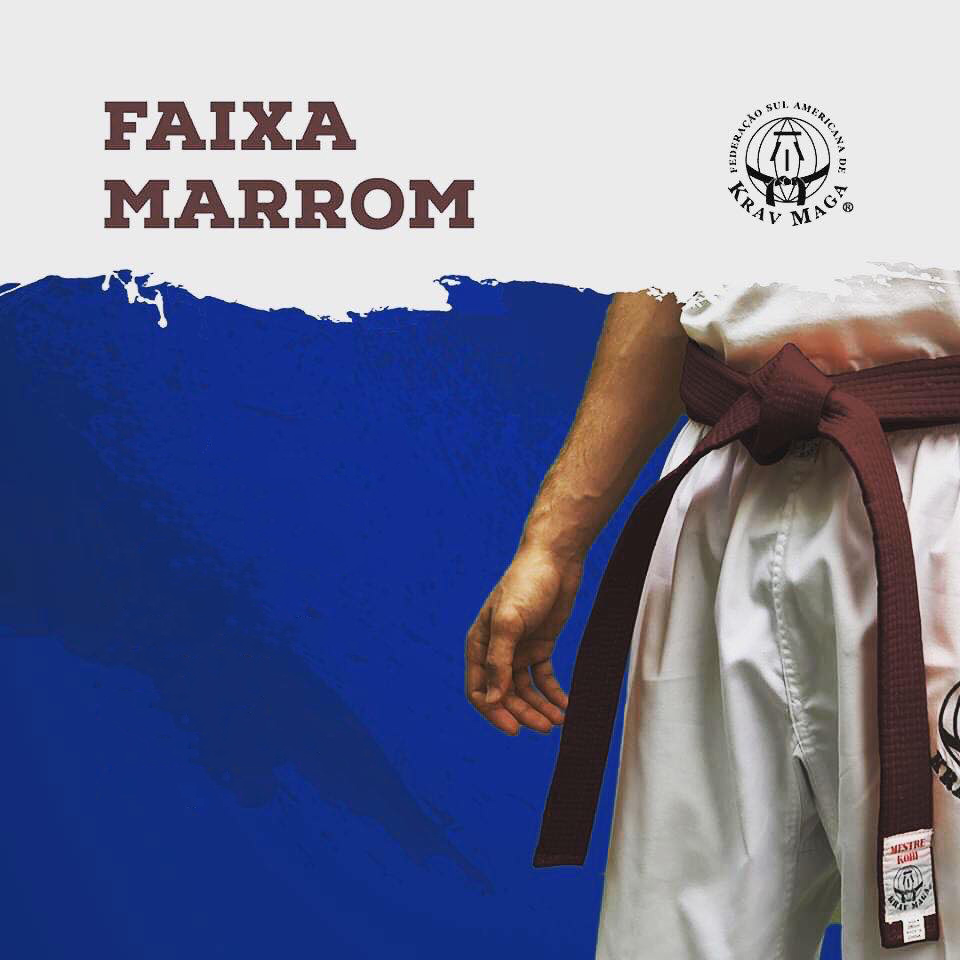
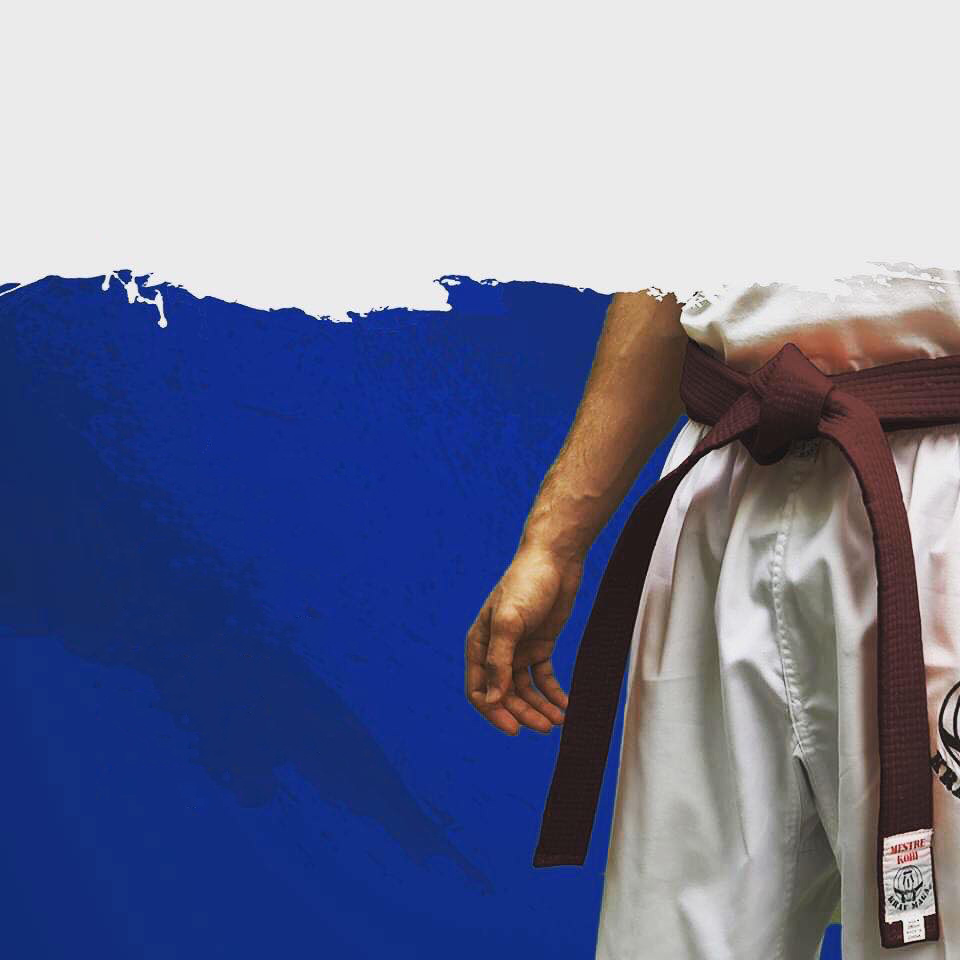
Continuação Desafio026 (d026)

Changed region(s): [[0.0938, 0.1875, 0.5, 0.25], [0.0938, 0.0938, 0.375, 0.1562], [0.75, 0.0938, 0.9062, 0.25]]

diff --git a/d026/index.html b/d026/index.html
@@ -22,7 +22,7 @@
         <h2>FAIXA BRANCA (FASE INICIAL)</h2>
     </section>
 
-    <section class="imagem">
+    <section class="imagem" id="img01">
         <p>Nessa fase inicial o aluno <br>
              encontra os primeiros <br>
              movimentos de soltura e <br>
@@ -42,7 +42,7 @@
         <h2 id="amarela">FAIXA AMARELA</h2>
     </section>
 
-    <section class="imagem">
+    <section class="imagem" id="img02">
         <p>Nessa etapa <br>
             são ensinados <br>
             os primeiros <br>
@@ -61,7 +61,7 @@
         <h2 id="laranja">FAIXA LARANJA</h2>
     </section>
 
-    <section class="imagem">
+    <section class="imagem" id="img03">
         <p>Nessa fase o aluno <br>
             tem total domínio das <br>
             técnicas já ensinadas, <br>
@@ -81,7 +81,7 @@
         <h2 id="verde">FAIXA VERDE</h2>
     </section>
 
-    <section class="imagem">
+    <section class="imagem" id="img04">
         <p>Nessa etapa ele <br>
             encontra defesas <br>
             ainda mais rápidas e <br>
@@ -101,7 +101,7 @@
         <h2 id="azul">FAIXA AZUL</h2>
     </section>
 
-    <section class="imagem">
+    <section class="imagem" id="img05">
         <p>Nesta fase, o aluno <br>
             precisa apresentar <br>
             velocidade, <br>
@@ -121,7 +121,7 @@
         <h2 id="marrom">FAIXA MARROM</h2>
     </section>
 
-    <section class="imagem">
+    <section class="imagem" id="img06">
         <p>Além dos exerícios <br>
             contra dois, três ou <br>
             mais atacantes, <br>
@@ -138,7 +138,7 @@
         <h2>FAIXA PRETA</h2>
     </section>
 
-    <section class="imagem">
+    <section class="imagem" id="img07">
         <p>É aqui que se aprende <br>
             defesas de ameaças <br>
             com fuzil e granada, <br>
@@ -158,7 +158,7 @@
         <h2 id="vermelhabranca">FAIXA VERMELHA E BRANCA</h2>
     </section>
 
-    <section class="imagem">
+    <section class="imagem" id="img08">
         <p>Esta é uma <br>
             graduação de <br>
             honra. O praticante <br>
@@ -176,7 +176,7 @@
         <h2 id="vermelha">FAIXA VERMELHA</h2>
     </section>
 
-    <section class="imagem">
+    <section class="imagem" id="img09">
         <p>A partir do 8º dan, a <br>
             faixa vira vermelha. A <br>
             última graduação do <br>

diff --git a/d026/estilo.css b/d026/estilo.css
@@ -50,6 +50,7 @@ section {
 
 .imagem {
     background-color: #585858;
+    box-shadow: inset 6px 6px 13px 0px rgba(0, 0, 0, 0.258);
 }
 
 section.normal > p {
@@ -63,13 +64,14 @@ section.normal > p {
 }
 
 .imagem > p {
-    display: inline-block;
     font: normal 400 1em var(--fonteparagrafo);
     color: white;
     background-color: rgba(0, 0, 0, 0.255);
     padding: 20px;
     text-align: left;
     line-height: 2em;
+    width: 50%;
+    margin-left: 20px;
 }
 
 footer {
@@ -116,6 +118,7 @@ a {
 
 h2 {
     font: 2em var(--fontesubprincipal);
+    padding: 20px;
 }
 
 #amarela {
@@ -144,4 +147,54 @@ h2 {
 
 #vermelha {
     color: red;
+}
+
+#img01 {
+    background: black url('imgs/Faixa\ Branca.jpg') right center no-repeat;
+    background-size: cover;
+    background-attachment: fixed;
+}
+
+#img02 {
+    background: black url('imgs/Faixa\ Amarela.jpg') right center no-repeat;
+    background-size: cover;
+    background-attachment: fixed;
+}
+
+#img03 {
+    background: black url('imgs/Faixa\ Laranja.jpg') right center no-repeat;
+    background-size: cover;
+    background-attachment: fixed;
+}
+
+#img04 {
+    background: black url('imgs/Faixa\ Verde.jpg') right center no-repeat;
+    background-size: cover;
+    background-attachment: fixed;
+}
+
+#img05 {
+    background: black url('imgs/Faixa\ Azul.jpg') right center no-repeat;
+    background-size: cover;
+    background-attachment: fixed;
+}
+
+#img06 {
+    background: black url('imgs/Faixa\ Marrom.jpg') right center no-repeat fixed;
+    background-size: cover;
+}
+
+#img07 {
+    background: black url('imgs/Faixa\ Preta.jpg') right center no-repeat fixed;
+    background-size: cover;
+}
+
+#img08 {
+    background: black url('imgs/Faixa\ Vermelha\ e\ Branca.jpg') right center no-repeat fixed;
+    background-size: cover;
+}
+
+#img09 {
+    background: black url('imgs/Faixa\ Vermelha.jpg') right center no-repeat fixed;
+    background-size: cover;
 }
